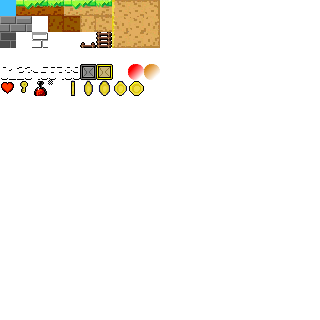
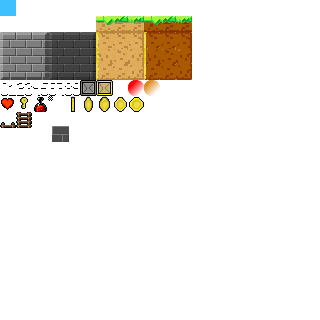
fix(res): Add new resources and illustrations
- update documentation chap 7 and 8 with new illustrations,
- add new graphic resources.

Changed region(s): [[0.0, 0.0, 0.625, 0.4062], [0.1562, 0.375, 0.2188, 0.4688]]

diff --git a/docs/chapter-07-upgrade_with_gameobject_and_plugin.md b/docs/chapter-07-upgrade_with_gameobject_and_plugin.md
@@ -7,7 +7,18 @@ Gaz plant and an unmaintainable class.
 
 We also want to propose some specialized Entity to implement new graphical elements but also new behaviors and usages.
 
+The new coming `GameObject` could be
+
+- a POINT,
+- a LINE,
+- a RECTANGLE,
+- an ELLIPSE
+- or an IMAGE.
+
 Let's move to some interesting changes, opening to more features and fancy things.
+
+![The new coming `GameObject` could be point, line, rectangle, ellipse or image](https://docs.google.com/drawings/d/e/2PACX-1vRvvjadJjJdGu9WGHRp-a9KXr0LgmGAfoHF8pQYC1vwve_P6PGPMRjOgWFTV4nRFJ3PfzKFzOECUeIY/pub?w=619&h=404 "The new coming GameObject could be
+point, line, rectangle, ellipse or image")
 
 ## Proposed evolution
 
@@ -257,7 +268,8 @@ Executing our new Plugin architecture will show the following window:
 
 ## Adding Interaction
 
-To add more fun and test capabilities, I want the App implmentation offers the opportunity to manage the number of Ball objects on the play area.
+To add more fun and test capabilities, I want the App implmentation offers the opportunity to manage the number of Ball
+objects on the play area.
 
 | Key                 | Action                              | 
 |---------------------|-------------------------------------|
@@ -266,7 +278,6 @@ To add more fun and test capabilities, I want the App implmentation offers the o
 | <kbd>DELETE</kbd>   | Remove all Balls from the play Area |
 
 So in the App class code:
-
 
 ```java
 public class App implements Game {
@@ -290,52 +301,54 @@ public class App implements Game {
     //...
 }
 ```
+
 And the required corresponding methods:
 
 ```java
 public class App implements Game {
- //...
- private void removeNbObjectByNameFilter(String objectName, int nb) {
-    List<Entity<?>> toBeRemoved = new ArrayList<>();
-    int count = 0;
-    for (Entity<?> e : getEntityManager().getEntities()) {
-      if (e.getName().contains(objectName)) {
-        toBeRemoved.add(e);
-        count++;
-        if (count > nb) {
-          break;
+    //...
+    private void removeNbObjectByNameFilter(String objectName, int nb) {
+        List<Entity<?>> toBeRemoved = new ArrayList<>();
+        int count = 0;
+        for (Entity<?> e : getEntityManager().getEntities()) {
+            if (e.getName().contains(objectName)) {
+                toBeRemoved.add(e);
+                count++;
+                if (count > nb) {
+                    break;
+                }
+            }
         }
-      }
+        toBeRemoved.forEach(e -> {
+            getEntityManager().getEntityMap().remove(e.getName());
+        });
     }
-    toBeRemoved.forEach(e -> {
-      getEntityManager().getEntityMap().remove(e.getName());
-    });
-  }
-  // (1)
-  private void addNewBalls(String objectName, int nb) {
-    int screenWidth = (int) config.get(ConfigAttribute.SCREEN_WIDTH);
-    int screenHeight = (int) config.get(ConfigAttribute.SCREEN_HEIGHT);
-    createBlueBalls(objectName, nb,
-            24.0,
-            screenWidth,
-            screenHeight,
-            Color.CYAN,
-            Color.BLUE);
-  }
-    
-  // (2)
-  private void removeAllObjectByNameFilter(String objectName) {
-    List<Entity<?>> toBeRemoved = new ArrayList<>();
-    for (Entity<?> e : getEntityManager().getEntities()) {
-      if (e.getName().contains(objectName)) {
-        toBeRemoved.add(e);
-      }
+
+    // (1)
+    private void addNewBalls(String objectName, int nb) {
+        int screenWidth = (int) config.get(ConfigAttribute.SCREEN_WIDTH);
+        int screenHeight = (int) config.get(ConfigAttribute.SCREEN_HEIGHT);
+        createBlueBalls(objectName, nb,
+                24.0,
+                screenWidth,
+                screenHeight,
+                Color.CYAN,
+                Color.BLUE);
     }
-    toBeRemoved.forEach(e -> {
-      getEntityManager().getEntityMap().remove(e.getName());
-    });
-  }
-  //...
+
+    // (2)
+    private void removeAllObjectByNameFilter(String objectName) {
+        List<Entity<?>> toBeRemoved = new ArrayList<>();
+        for (Entity<?> e : getEntityManager().getEntities()) {
+            if (e.getName().contains(objectName)) {
+                toBeRemoved.add(e);
+            }
+        }
+        toBeRemoved.forEach(e -> {
+            getEntityManager().getEntityMap().remove(e.getName());
+        });
+    }
+    //...
 }
 ```
 
@@ -346,7 +359,6 @@ public class App implements Game {
 2. Removing all balls
 
 ![](illustrations/figure-gameobject-no-ball.png)
-
 
 ## Debugging Usage
 

diff --git a/docs/chapter-08-display_debugging_layer.md b/docs/chapter-08-display_debugging_layer.md
@@ -6,6 +6,8 @@ The goal of the Display Debug Information layer consists in offering a new way t
 about some entities. By configuration, the developer will be able to set a level of details, and define on wich entities
 he wants to get the info.
 
+![The red square player GameObject is displayed with debug info](https://docs.google.com/drawings/d/e/2PACX-1vQ20cHHoPkdXLwmCKX-t1CM3xbDa-6EqKC8FItscfjh6T560XSZzOZiYsufCCQJesx0NRR5J1djxYNE/pub?w=619&h=404 "The red square player GameObject is displayed with debug info")
+
 ## Rendering debug !
 
 This is possible through the Renderer system, and with some prepared data in the `Entity` itself.
@@ -21,7 +23,7 @@ public class Entity<T> {
         List<String> infos = new ArrayList<>();
         infos.add(String.format("name:%s", name));
         infos.add(String.format("pos:%4.2f,%4.2f", x, y));
-        infos.add(String.format("size:%4.2f,%4.2f", width, height));
+        infos.add(String.format("size:%4.0fx%4.0f", width, height));
         infos.add(String.format("spd:%4.2f,%4.2f", dx, dy));
         infos.add(String.format("acc:%4.2f,%4.2f", ax, ay));
         infos.add(String.format("map:%s[d=%4.2f,e=%4.2f,f=%4.2f]",
